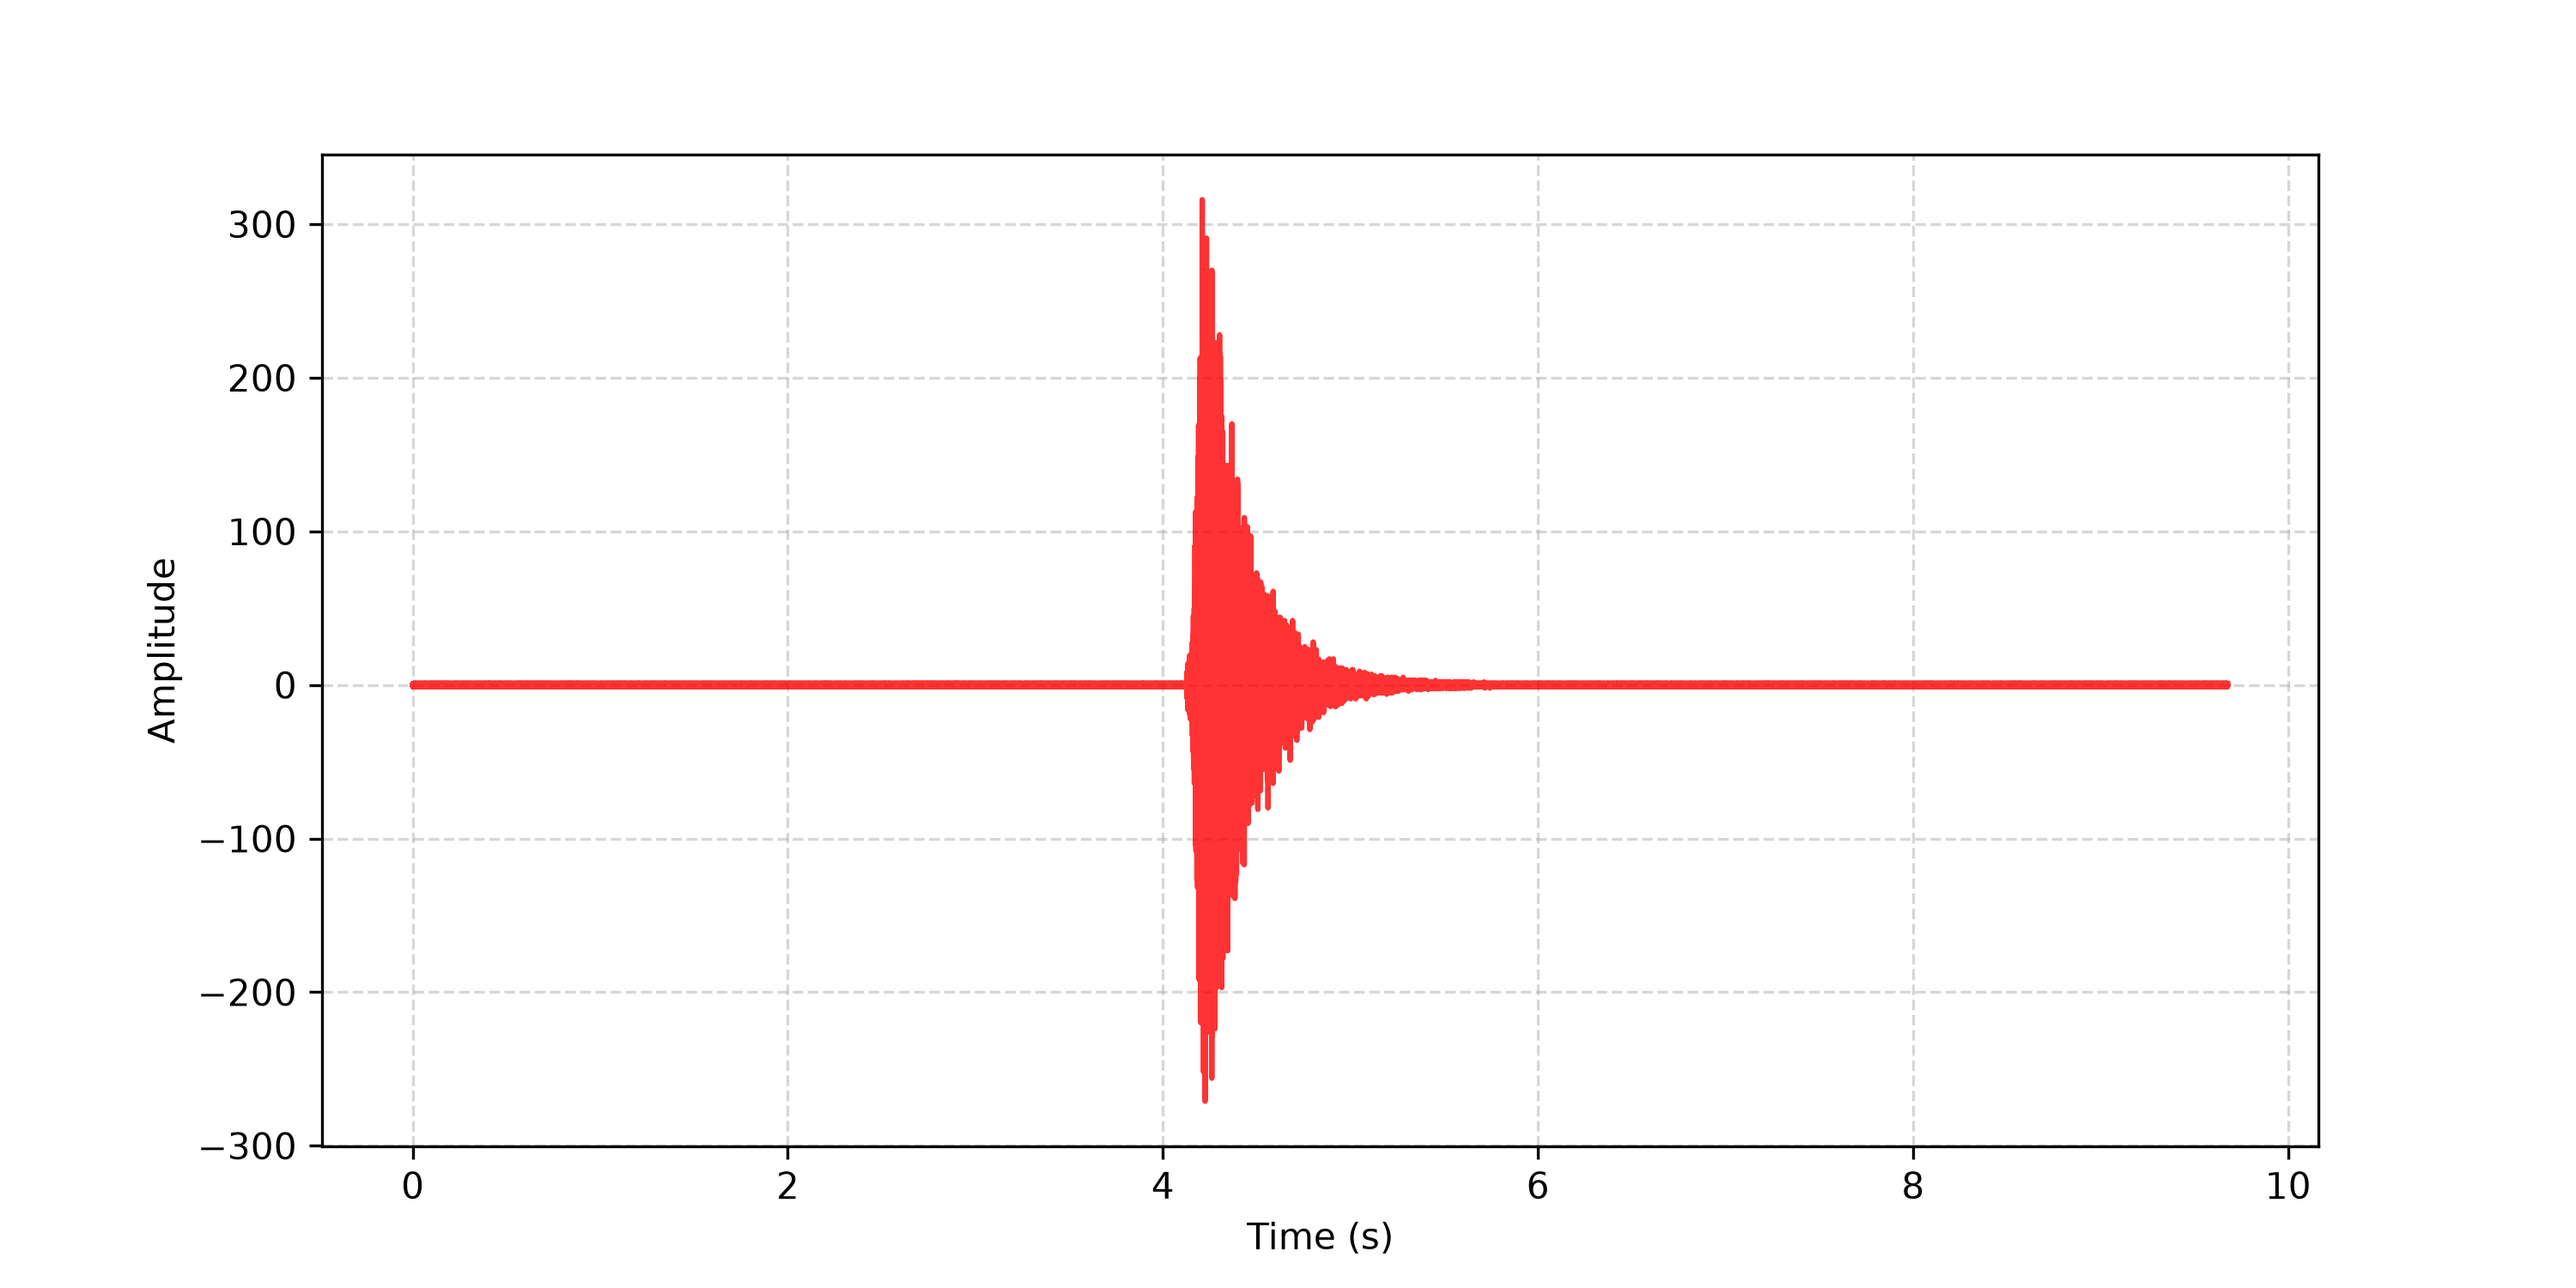
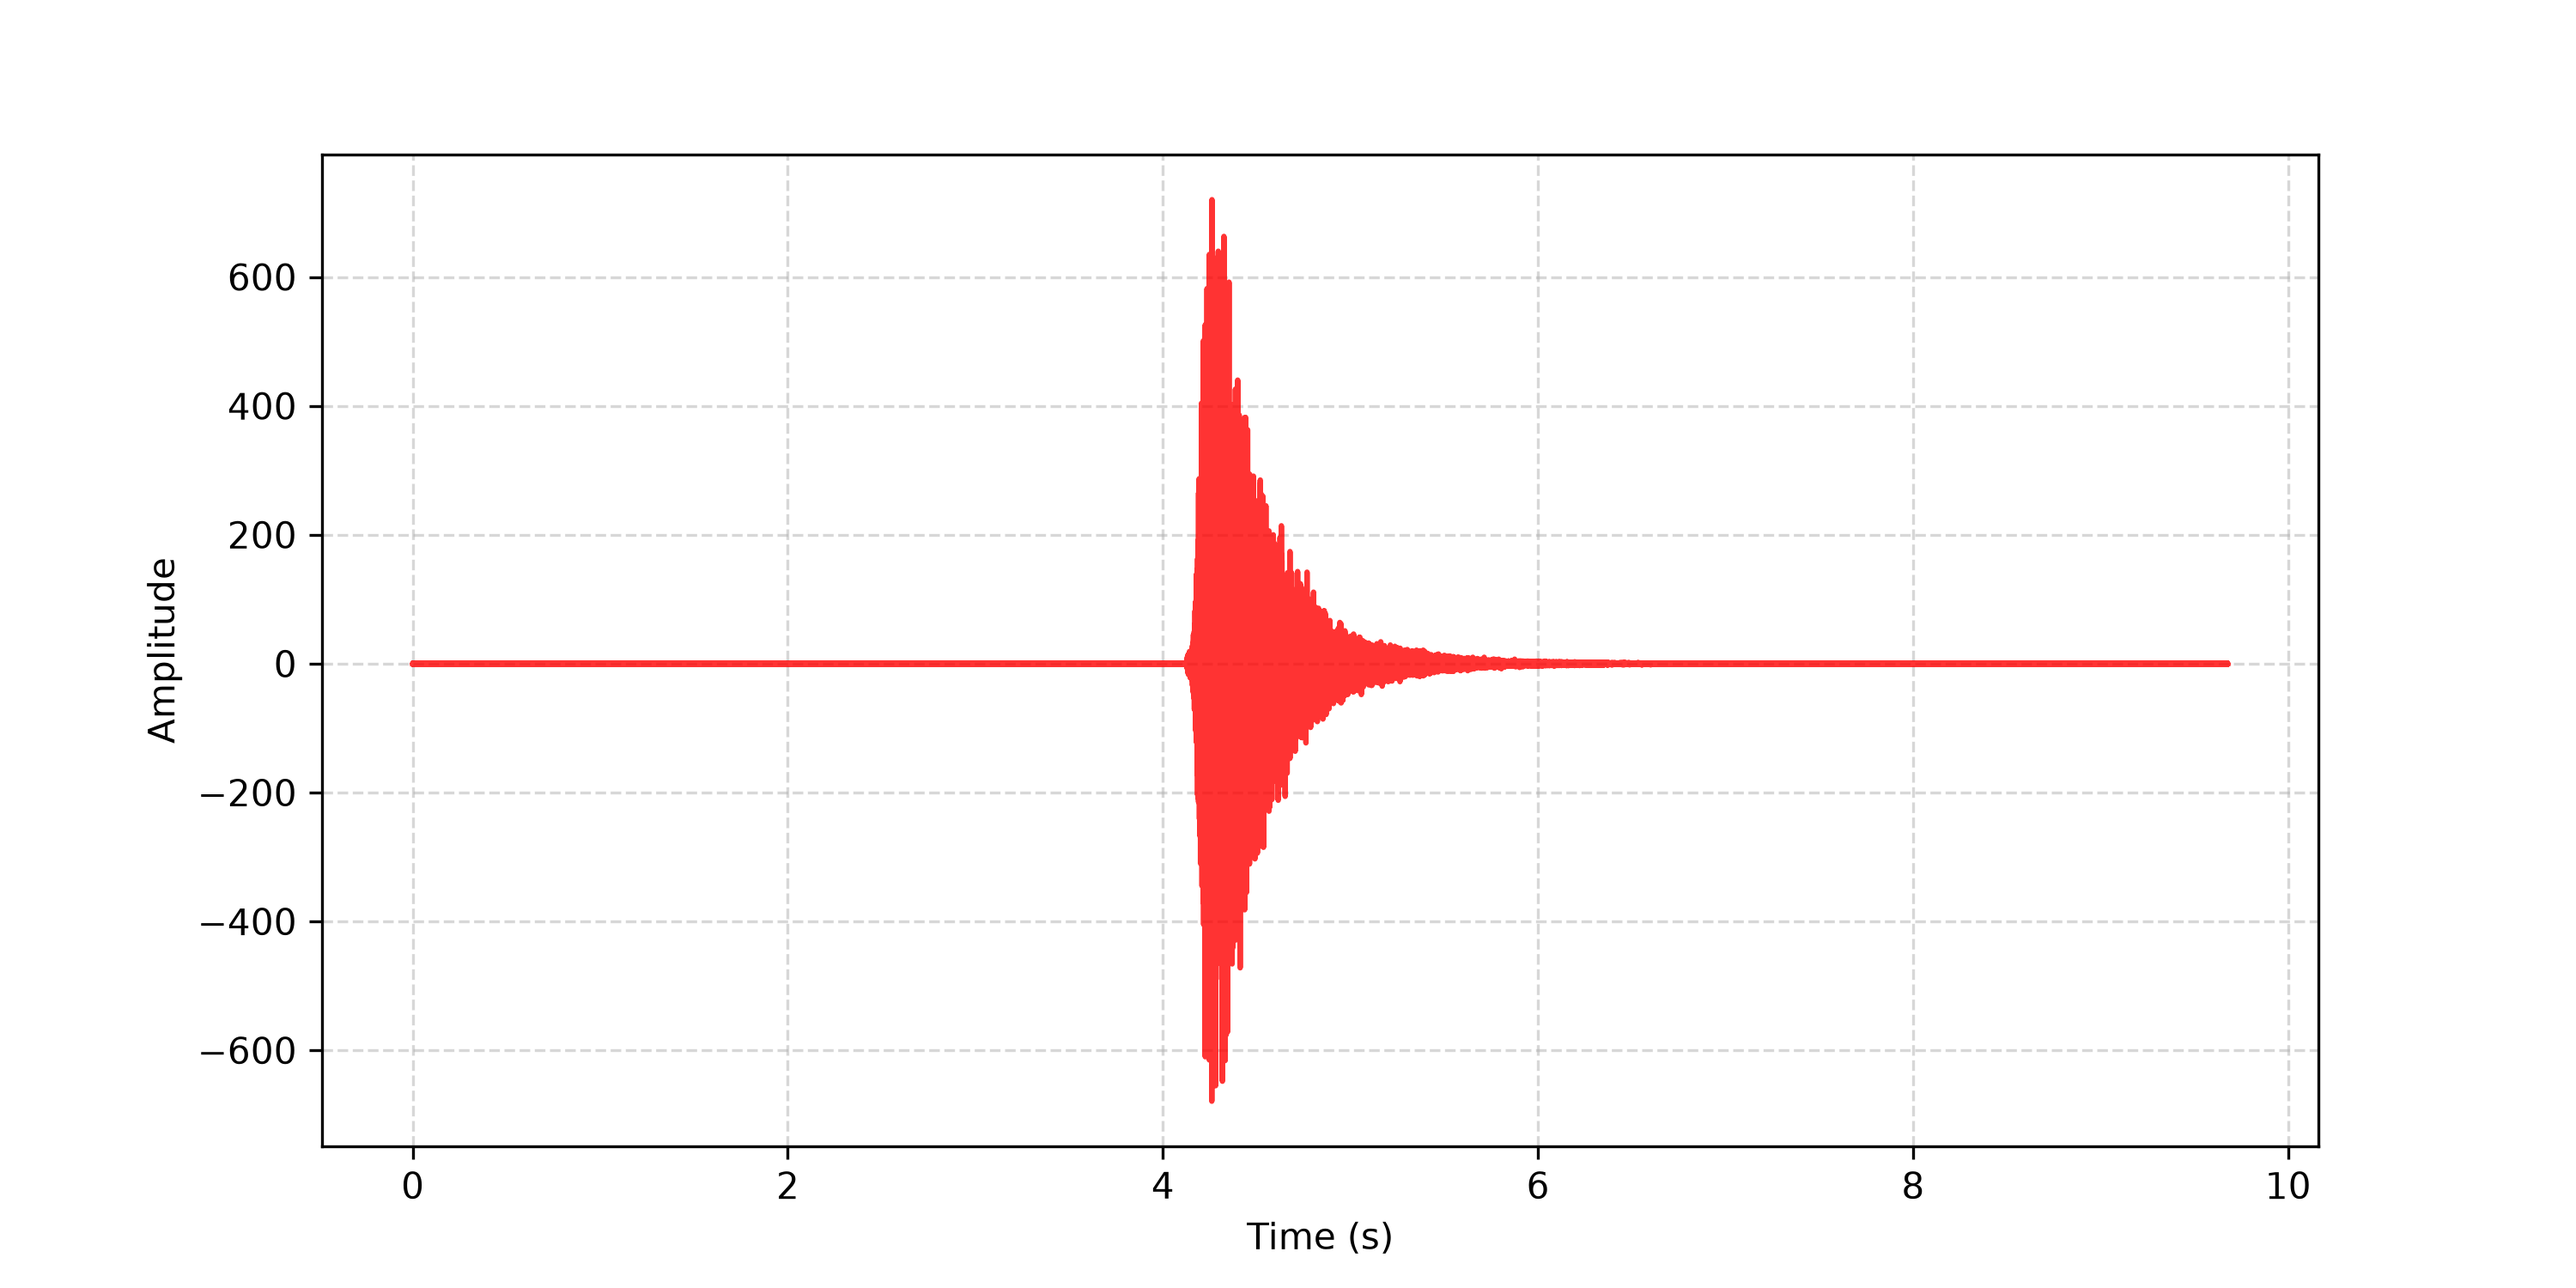
Update dsp engine

diff --git a/Source/PluginProcessor.cpp b/Source/PluginProcessor.cpp
@@ -190,7 +190,7 @@ void CustomFreeverbAudioProcessor::prepareToPlay (double sampleRate, int samples
     float initialFeedback = initialRoomSize * 0.28f + 0.70f;
 
     // Scaling delay lengths for Left and Right channels
-    for(int i = 0; i < 8; ++i)
+    for(int i = 0; i < 12; ++i)
     {
         int scaledCombL = static_cast<int>(std::round(baseCombLengths[i] * scaleFactor));
         int scaledCombR = static_cast<int>(std::round((baseCombLengths[i] + baseStereoSpread) * scaleFactor));
@@ -199,7 +199,7 @@ void CustomFreeverbAudioProcessor::prepareToPlay (double sampleRate, int samples
         lbcfR[i].prepare(scaledCombR, initialFeedback, 0.20f);
     }
     
-    for(int i = 0; i < 4; ++i)
+    for(int i = 0; i < 6; ++i)
     {
         int scaledApfL = static_cast<int>(std::round(baseApfLengths[i] * scaleFactor));
         int scaledApfR = static_cast<int>(std::round((baseApfLengths[i] + baseStereoSpread) * scaleFactor));
@@ -262,7 +262,7 @@ void CustomFreeverbAudioProcessor::processBlock (juce::AudioBuffer<float>& buffe
        float combFeedback = (roomSize * 0.28f) + 0.70f;
        
        // Update comb filter feedback gains
-    for (int i = 0; i < 8; ++i) {
+    for (int i = 0; i < 12; ++i) {
         lbcfL[i].setFeedback(combFeedback);
         lbcfR[i].setFeedback(combFeedback);
     }
@@ -291,22 +291,22 @@ void CustomFreeverbAudioProcessor::processBlock (juce::AudioBuffer<float>& buffe
         // ---Left Channel DSP Engine---
         float erL = earlyReflectionsL.processSample(inputL);
         float lbcfSumL = 0.0f;
-        for (int i = 0; i < 8; ++i) {
+        for (int i = 0; i < 12; ++i) {
             lbcfSumL += lbcfL[i].processSample(inputL);
         }
         float apfOutL = lbcfSumL;
-        for (int i = 0; i < 4; ++i) {
+        for (int i = 0; i < 6; ++i) {
             apfOutL = apfL[i].processSample(apfOutL);
         }
         
         // --- RIGHT CHANNEL DSP ENGINE ---
         float erR = earlyReflectionsR.processSample(inputR);
         float lbcfSumR = 0.0f;
-        for (int i = 0; i < 8; ++i) {
+        for (int i = 0; i < 12; ++i) {
             lbcfSumR += lbcfR[i].processSample(inputR);
         }
         float apfOutR = lbcfSumR;
-        for (int i = 0; i < 4; ++i) {
+        for (int i = 0; i < 6; ++i) {
             apfOutR = apfR[i].processSample(apfOutR);
         }
         
